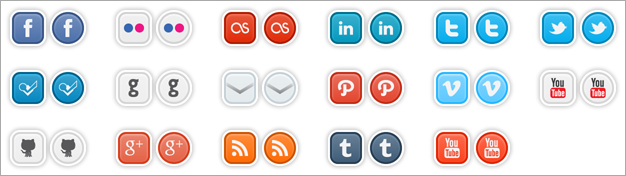
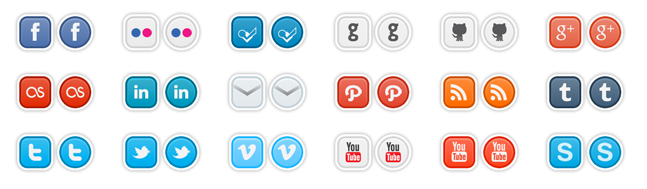
Added skype + vertical image sprite (faster load!)

diff --git a/css/social-buttons.css b/css/social-buttons.css
@@ -68,7 +68,7 @@
 @media only screen and (-webkit-min-device-pixel-ratio: 2) {
   .social-btn:after {
     background: url('../img/sprite-rsmb-x2.png') no-repeat;
-    background-size: 476px;
+    background-size: 28px;
   }
 }
 .facebook {
@@ -90,7 +90,7 @@
   background-color: #ebebeb;
 }
 .flickr:after {
-  background-position: -28px 0;
+  background-position: 0px -28px;
   border-color: #d2d2d2;
   -webkit-box-shadow: inset 0px 1px 2px 0px #ffffff;
   box-shadow: inset 0px 1px 2px 0px #ffffff;
@@ -105,7 +105,7 @@
   background-color: #0086bf;
 }
 .foursquare:after {
-  background-position: -56px 0;
+  background-position: 0 -56px;
   border-color: #00628c;
   -webkit-box-shadow: inset 0px 1px 2px 0px #40c6ff;
   box-shadow: inset 0px 1px 2px 0px #40c6ff;
@@ -135,16 +135,16 @@
   background-color: #d5d5d5;
 }
 .github:after {
-  background-position: -84px 0;
+  background-position: 0 -84px;
 }
 .github-alt:after {
-  background-position: -112px 0;
+  background-position: 0 -112px;
 }
 .gplus {
   background-color: #e46044;
 }
 .gplus:after {
-  background-position: -140px 0;
+  background-position: 0 -140px;
   border-color: #d63f1f;
   -webkit-box-shadow: inset 0px 1px 2px 0px #f4bfb3;
   box-shadow: inset 0px 1px 2px 0px #f4bfb3;
@@ -159,7 +159,7 @@
   background-color: #e02703;
 }
 .lastfm:after {
-  background-position: -168px 0;
+  background-position: 0 -168px;
   border-color: #ae1e02;
   -webkit-box-shadow: inset 0px 1px 2px 0px #fd7e66;
   box-shadow: inset 0px 1px 2px 0px #fd7e66;
@@ -174,7 +174,7 @@
   background-color: #0097bd;
 }
 .linkedin:after {
-  background-position: -196px 0;
+  background-position: 0 -196px;
   border-color: #006e8a;
   -webkit-box-shadow: inset 0px 1px 2px 0px #3ed8ff;
   box-shadow: inset 0px 1px 2px 0px #3ed8ff;
@@ -189,7 +189,7 @@
   background-color: #e3e9ec;
 }
 .mail:after {
-  background-position: -224px 0;
+  background-position: 0 -224px;
   border-color: #c5d1d7;
   -webkit-box-shadow: inset 0px 1px 2px 0px #ffffff;
   box-shadow: inset 0px 1px 2px 0px #ffffff;
@@ -204,7 +204,7 @@
   background-color: #e3432c;
 }
 .path:after {
-  background-position: -252px 0;
+  background-position: 0 -252px;
   border-color: #c22f1a;
   -webkit-box-shadow: inset 0px 1px 2px 0px #f2a79d;
   box-shadow: inset 0px 1px 2px 0px #f2a79d;
@@ -219,7 +219,7 @@
   background-color: #ff6900;
 }
 .rss:after {
-  background-position: -280px 0;
+  background-position: 0 -280px;
   border-color: #cc5400;
   -webkit-box-shadow: inset 0px 1px 2px 0px #ffb480;
   box-shadow: inset 0px 1px 2px 0px #ffb480;
@@ -234,7 +234,7 @@
   background-color: #3c5a76;
 }
 .tumblr:after {
-  background-position: -308px 0;
+  background-position: 0 -308px;
   border-color: #2b4054;
   -webkit-box-shadow: inset 0px 1px 2px 0px #779aba;
   box-shadow: inset 0px 1px 2px 0px #779aba;
@@ -264,16 +264,16 @@
   background-color: #0087ba;
 }
 .twitter:after {
-  background-position: -336px 0;
+  background-position: 0 -336px;
 }
 .twitter-alt:after {
-  background-position: -364px 0;
+  background-position: 0 -364px;
 }
 .vimeo {
   background-color: #5bc8ff;
 }
 .vimeo:after {
-  background-position: -392px 0;
+  background-position: 0 -392px;
   border-color: #28b7ff;
   -webkit-box-shadow: inset 0px 1px 2px 0px #dbf3ff;
   box-shadow: inset 0px 1px 2px 0px #dbf3ff;
@@ -288,7 +288,7 @@
   background-color: #eeeeee;
 }
 .youtube:after {
-  background-position: -420px 0;
+  background-position: 0 -420px;
   border-color: #d5d5d5;
   -webkit-box-shadow: inset 0px 1px 2px 0px #ffffff;
   box-shadow: inset 0px 1px 2px 0px #ffffff;
@@ -303,7 +303,7 @@
   background-color: #fc3f1a;
 }
 .youtube-alt:after {
-  background-position: -448px 0;
+  background-position: 0 -448px;
   border-color: #e02703;
   -webkit-box-shadow: inset 0px 1px 2px 0px #fea998;
   box-shadow: inset 0px 1px 2px 0px #fea998;
@@ -313,4 +313,19 @@
 }
 .youtube-alt:active {
   background-color: #e02703;
+}
+.skype {
+  background-color: #08a7e3;
+}
+.skype:after {
+  background-position: 0 -476px;
+  border-color: #0087ba;
+  -webkit-box-shadow: inset 0px 1px 2px 0px #6ed7ff;
+  box-shadow: inset 0px 1px 2px 0px #6ed7ff;
+}
+.skype:hover {
+  background-color: #30bbf1;
+}
+.skype:active {
+  background-color: #0a94c9;
 }

diff --git a/less/social-buttons/skype.less b/less/social-buttons/skype.less
@@ -1,0 +1,21 @@
+//
+// VARIABLES
+// ------------------------------------------------------------------------------------
+
+@color-skype: #08a7e3;
+
+//
+// YOUTUBE BUTTON STYLE
+// ------------------------------------------------------------------------------------
+
+.youtube { 
+  background-color: @color-skype;
+  
+  &:after {
+    background-position: 0 -476px;
+    border-color: darken( @color-skype, @diff-darker );
+    .box-shadow( inset 0px 1px 2px 0px lighten( @color-skype, @diff-lighter ) );
+  }
+  &:hover { background-color: lighten( @color-skype, @diff-lighter-hover ); }
+  &:active { background-color: darken( @color-skype, @diff-darker ); }
+}

diff --git a/scss/social-buttons/skype.scss b/scss/social-buttons/skype.scss
@@ -1,0 +1,21 @@
+//
+// VARIABLES
+// ------------------------------------------------------------------------------------
+
+$color-skype: #08a7e3;
+
+//
+// PATH BUTTON STYLE
+// ------------------------------------------------------------------------------------
+
+.path {
+  background-color: $color-skype;
+
+  &:after {
+    background-position: 0 -476px;
+    border-color: darken( $color-skype, $diff-darker );
+    @include box-shadow( inset 0px 1px 2px 0px lighten( $color-skype, $diff-lighter ) );
+  }
+  &:hover { background-color: lighten( $color-skype, $diff-lighter-hover ); }
+  &:active { background-color: darken( $color-skype, $diff-darker ); }
+}

diff --git a/scss/social-buttons/youtube.scss b/scss/social-buttons/youtube.scss
@@ -13,7 +13,7 @@ $color-youtube-alt: #fc3f1a;
   background-color: $color-youtube;
   
   &:after {
-    background-position: -420px 0;
+    background-position: 0 -420px;
     border-color: darken( $color-youtube, $diff-darker );
     @include box-shadow( inset 0px 1px 2px 0px lighten( $color-youtube, $diff-lighter ) );
   }
@@ -29,7 +29,7 @@ $color-youtube-alt: #fc3f1a;
   background-color: $color-youtube-alt;
   
   &:after {
-    background-position: -448px 0;
+    background-position: 0 -448px;
     border-color: darken( $color-youtube-alt, $diff-darker );
     @include box-shadow( inset 0px 1px 2px 0px lighten( $color-youtube-alt, $diff-lighter ) );
   }

diff --git a/less/social-buttons.less b/less/social-buttons.less
@@ -91,7 +91,7 @@
 @media only screen and (-webkit-min-device-pixel-ratio: 2) {
   .social-btn:after {
     background: url('@{image-path}/sprite-rsmb-x2.png') no-repeat;
-    background-size: 476px;
+    background-size: 28px;
   }
 }
 
@@ -109,6 +109,7 @@
 @import "social-buttons/mail.less";
 @import "social-buttons/path.less";
 @import "social-buttons/rss.less";
+@import "social-buttons/skype.less";
 @import "social-buttons/tumblr.less";
 @import "social-buttons/twitter.less";
 @import "social-buttons/vimeo.less";

diff --git a/scss/social-buttons/foursquare.scss b/scss/social-buttons/foursquare.scss
@@ -12,7 +12,7 @@ $color-foursquare: #0086bf;
   background-color: $color-foursquare;
   
   &:after {
-    background-position: -56px 0;
+    background-position: 0 -56px;
     border-color: darken( $color-foursquare, $diff-darker );
     @include box-shadow( inset 0px 1px 2px 0px lighten( $color-foursquare, $diff-lighter ) );
   }

diff --git a/scss/social-buttons/twitter.scss b/scss/social-buttons/twitter.scss
@@ -19,5 +19,5 @@ $color-twitter: #00aced;
   &:active { background-color: darken( $color-twitter, $diff-darker ); }
 }
 
-.twitter:after { background-position: -336px 0; }
-.twitter-alt:after { background-position: -364px 0; }
+.twitter:after { background-position: 0 -336px; }
+.twitter-alt:after { background-position: 0 -364px; }

diff --git a/scss/social-buttons/linkedin.scss b/scss/social-buttons/linkedin.scss
@@ -12,7 +12,7 @@ $color-linkedin: #0097bd;
   background-color: $color-linkedin;
   
   &:after {
-    background-position: -196px 0;
+    background-position: 0 -196px;
     border-color: darken( $color-linkedin, $diff-darker );
     @include box-shadow( inset 0px 1px 2px 0px lighten( $color-linkedin, $diff-lighter ) );
   }

diff --git a/index.html b/index.html
@@ -115,6 +115,11 @@
 				<a href="#" class="social-btn rounded youtube-alt"></a>
 				<a href="#" class="social-btn youtube-alt"></a>
 			</div>
+
+			<div class="btn-container">
+				<a href="#" class="social-btn rounded skype"></a>
+				<a href="#" class="social-btn skype"></a>
+			</div>
 		</div>
    </body>
 </html>

diff --git a/scss/social-buttons.scss b/scss/social-buttons.scss
@@ -109,6 +109,7 @@ $diff-darker: 10%; // Used for: background color of icon in active state
 @import "social-buttons/mail";
 @import "social-buttons/path";
 @import "social-buttons/rss";
+@import "social-buttons/skype";
 @import "social-buttons/tumblr";
 @import "social-buttons/twitter";
 @import "social-buttons/vimeo";

diff --git a/scss/social-buttons/github.scss b/scss/social-buttons/github.scss
@@ -19,5 +19,5 @@ $color-github: #eee;
   &:active { background-color: darken( $color-github, $diff-darker ); }
 }
 
-.github:after { background-position: -84px 0; }
-.github-alt:after { background-position: -112px 0; }
+.github:after { background-position: 0 -84px; }
+.github-alt:after { background-position: 0 -112px; }

diff --git a/scss/social-buttons/lastfm.scss b/scss/social-buttons/lastfm.scss
@@ -12,7 +12,7 @@ $color-lastfm: #e02703;
   background-color: $color-lastfm;
   
   &:after {
-    background-position: -168px 0;
+    background-position: 0 -168px;
     border-color: darken( $color-lastfm, $diff-darker );
     @include box-shadow( inset 0px 1px 2px 0px lighten( $color-lastfm, $diff-lighter ) );
   }
